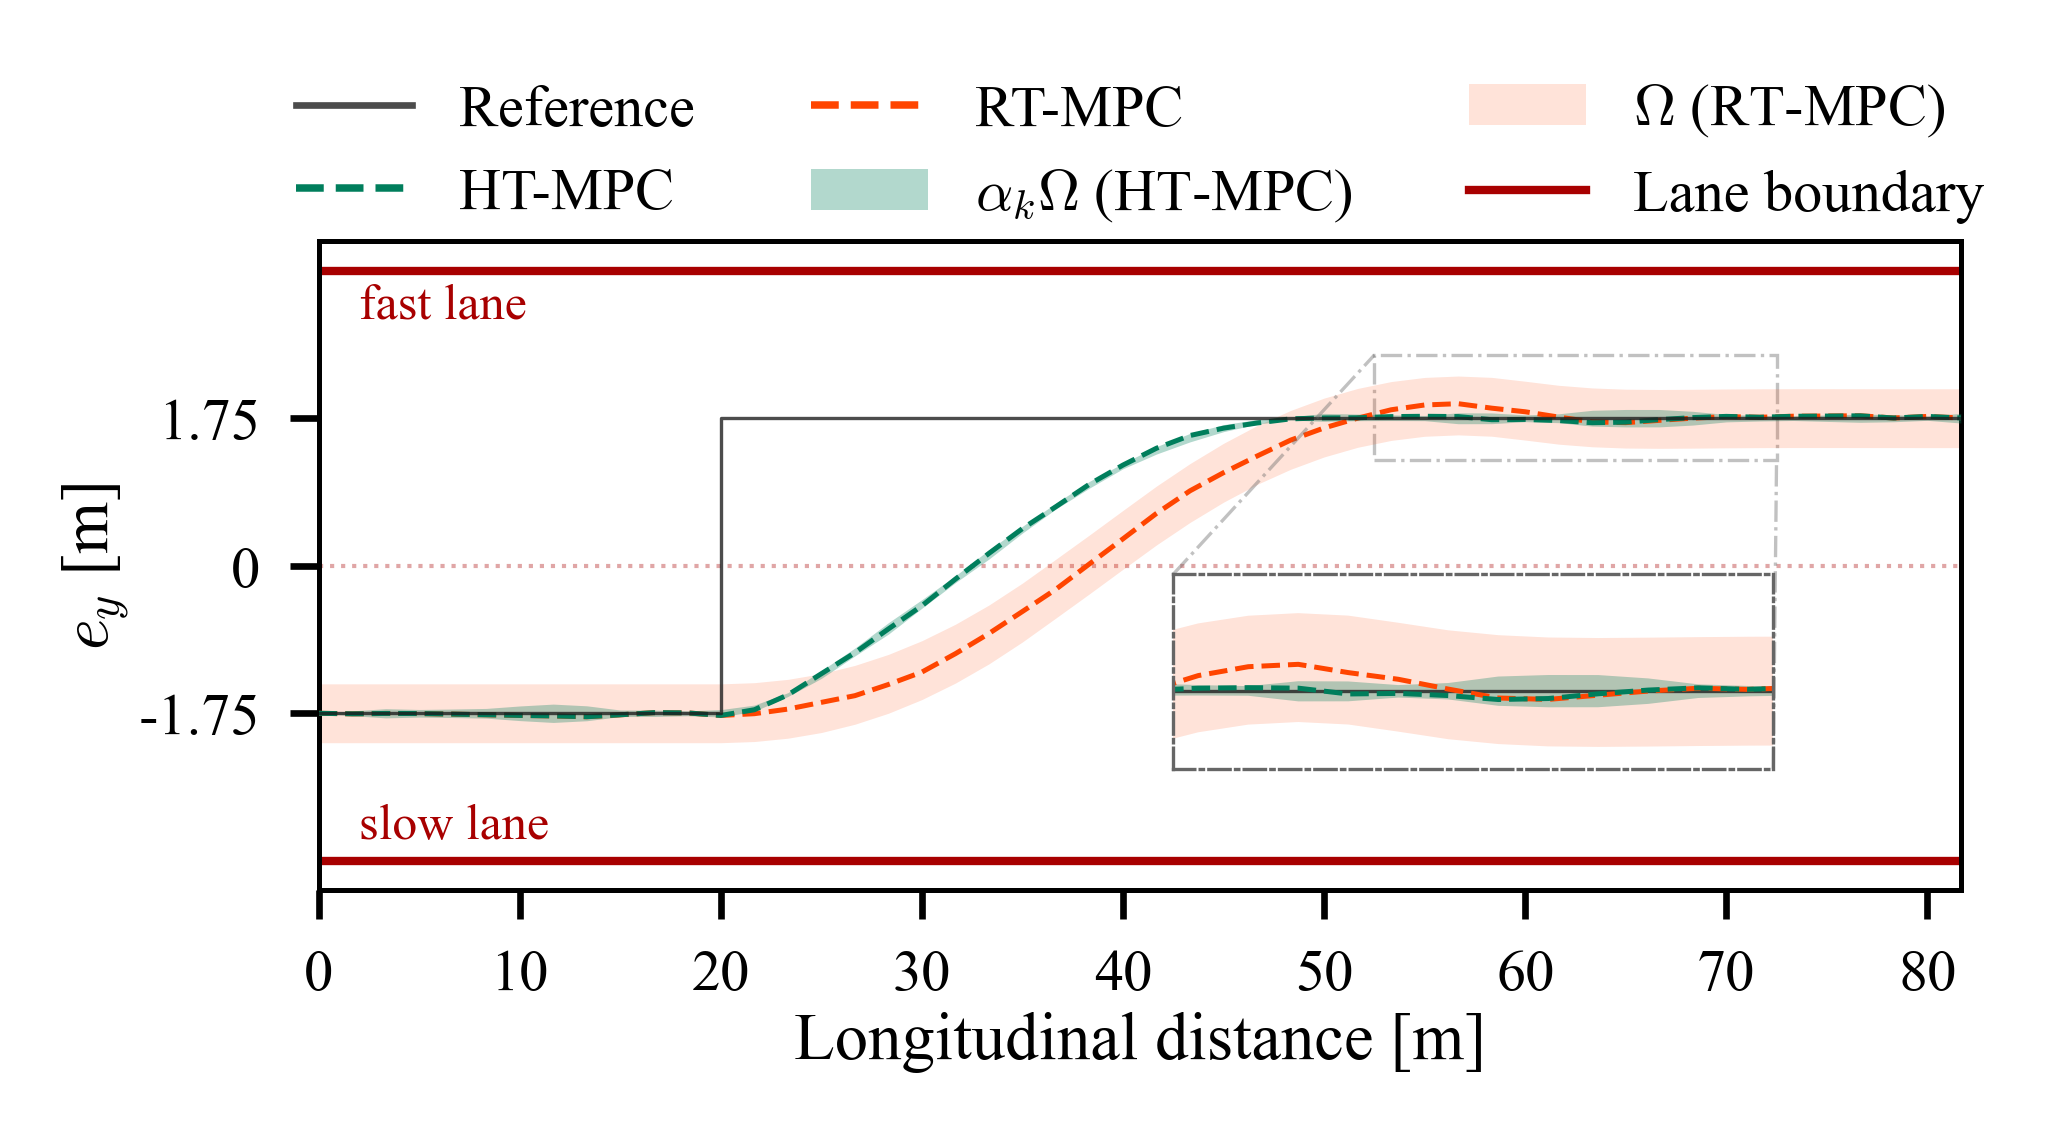
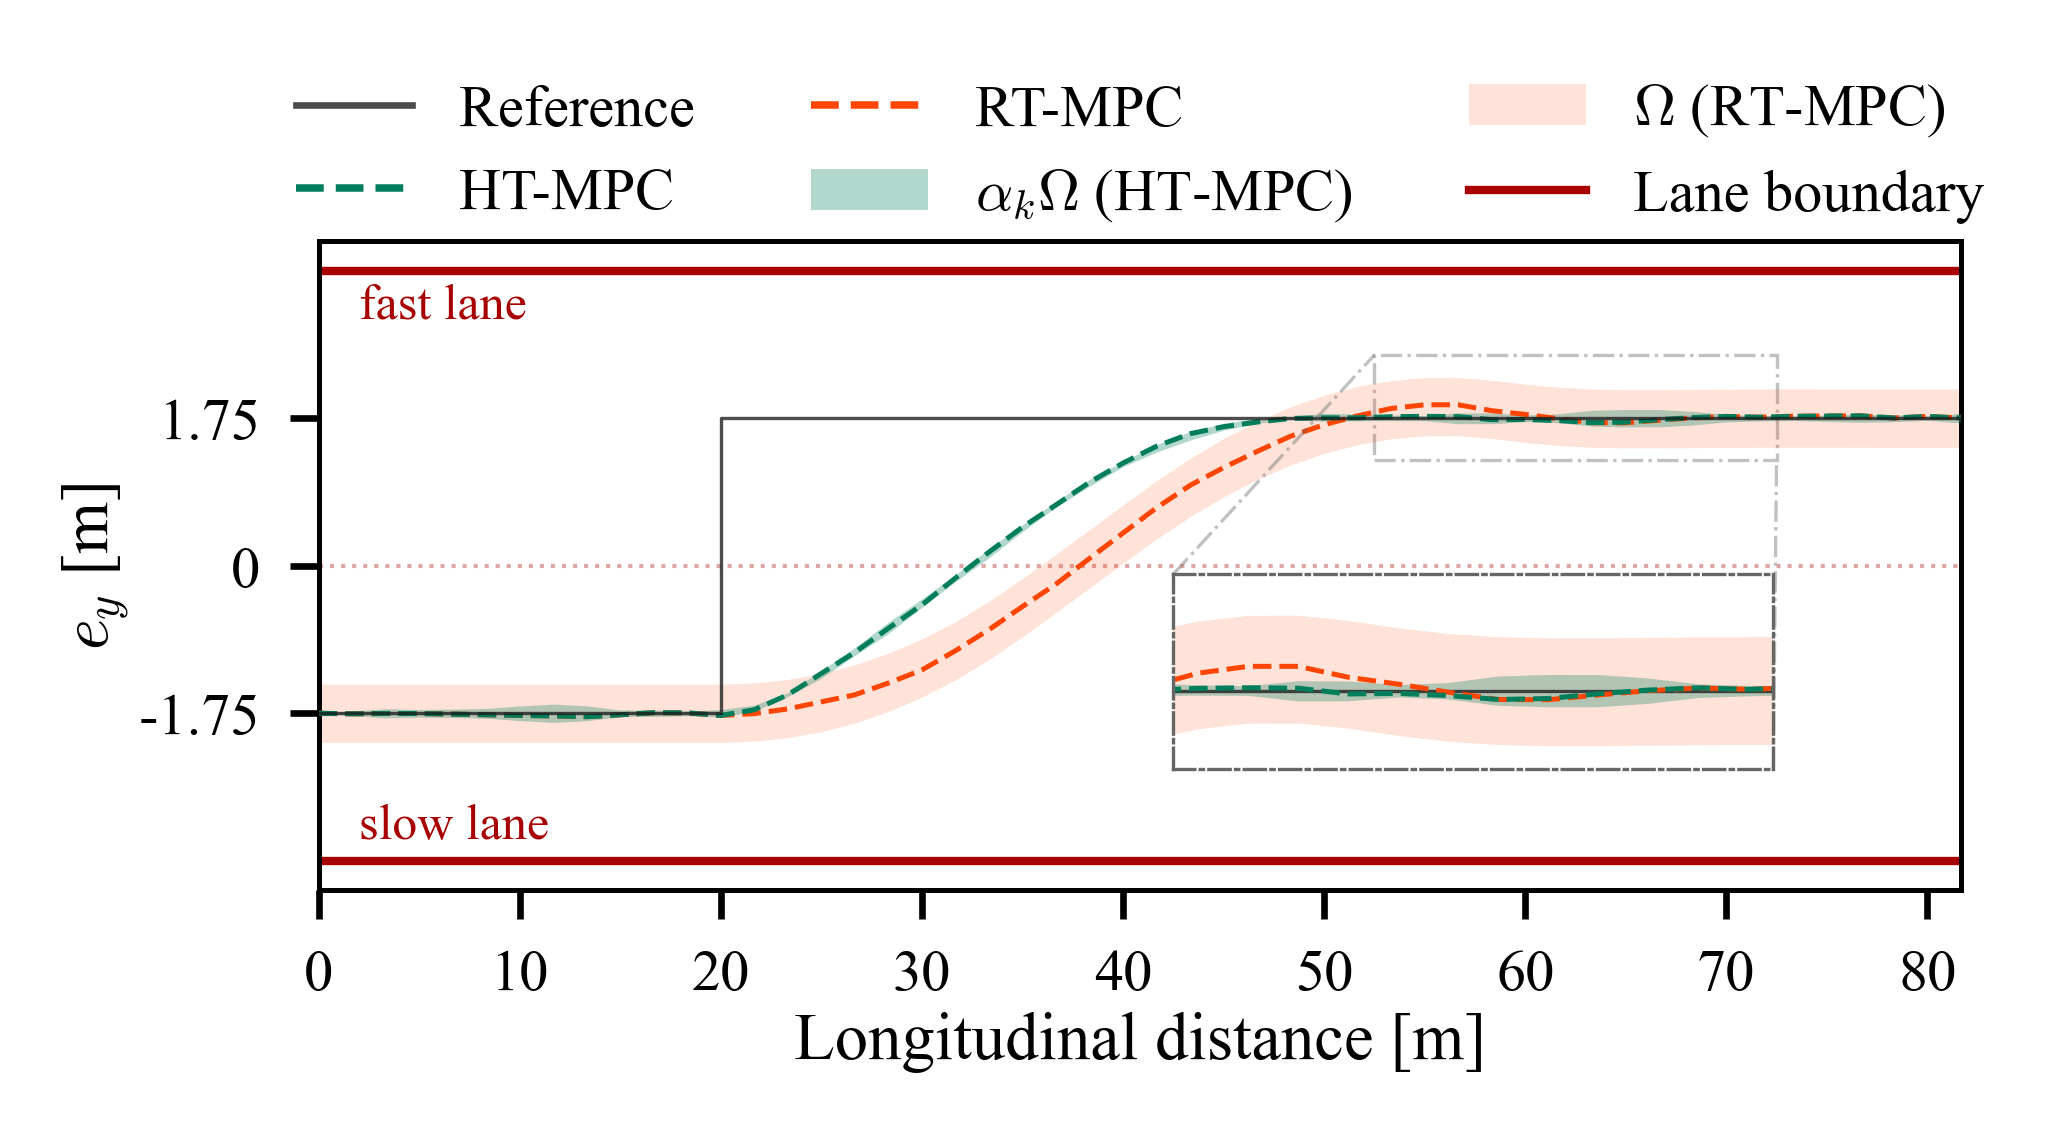
Lateral model: single input (front steering only)
The yaw-moment input mu_b is removed from the lateral single-track model.
Within a single-track model a yaw moment cannot be generated internally and,
with its former bound of 2 N.m, the channel had negligible authority
(1/14400 of steering). Removing it changes the results only in the third
decimal (Omega half-width in e_y 0.3490 -> 0.3457 m).

- LatVeh_Benchmark.ipynb: B is 4x1, m = 1, R_lqr = 1, R_c = 0.1,
  |delta_s| <= 0.20 rad; re-executed, outputs and figure regenerated
- htmpc_latveh.py: Section 1 re-copied verbatim; design() updated

diff --git a/htmpc_latveh.py b/htmpc_latveh.py
@@ -4,7 +4,8 @@ htmpc_latveh.py - engine for the interactive HT-MPC vs RT-MPC lane-change demo
 
 Section 1 (down to the "INTERACTIVE EXTENSIONS" banner) is a VERBATIM copy of the
 model / uncertainty / RPI / tightening / OCP / simulator code of
-``LatVeh_Benchmark.ipynb`` (the frozen, reviewer-facing notebook).  Nothing in
+``LatVeh_Benchmark.ipynb`` (the reviewer-facing notebook; single-track model with
+front steering as the only input).  Nothing in
 that section has been modified.
 
 Section 2 adds what the interactive demo needs on top of it:
@@ -92,16 +93,16 @@ def _Ac(vx):
 def _Bc():
     m, Iz, lf, Cf = _m, _Iz, _lf, _Cf
     return np.array([
-        [0.,           0.   ],
-        [0.,           0.   ],
-        [2.*Cf/m,      0.   ],
-        [2.*Cf*lf/Iz,  1./Iz],
+        [0.          ],
+        [0.          ],
+        [2.*Cf/m     ],
+        [2.*Cf*lf/Iz ],
     ])
 
 
 def discretize(vx, Ts):
     sd = sig.StateSpace(
-        _Ac(vx), _Bc(), np.eye(4), np.zeros((4, 2))
+        _Ac(vx), _Bc(), np.eye(4), np.zeros((4, 1))
     ).to_discrete(Ts)
     return np.array(sd.A), np.array(sd.B)
 
@@ -468,8 +469,6 @@ def run_rtmpc(A, B, A_hat, B_hat, K, C_out,
                      n_viol=0,ok=ok)
 
 
-
-
 # ══════════════════════════════════════════════════════════════════════════════
 #  SECTION 2 - INTERACTIVE EXTENSIONS  (not part of the benchmark)
 # ══════════════════════════════════════════════════════════════════════════════
@@ -505,10 +504,10 @@ def design(verbose: bool = True) -> Design:
     with contextlib.redirect_stdout(buf):
         vx0, Ts = 60.0/3.6, 0.1
         A, B  = discretize(vx0, Ts)
-        n, m  = 4, 2
+        n, m  = 4, 1
         C_out = np.array([[1., 0., 0., 0.]])
 
-        Q_lqr = np.diag([50., 10., 1., 10.]);  R_lqr = np.diag([1.0, 0.1])
+        Q_lqr = np.diag([50., 10., 1., 10.]);  R_lqr = np.diag([1.0])
         P_lqr = la.solve_discrete_are(A, B, Q_lqr, R_lqr)
         K     = -la.solve(R_lqr + B.T@P_lqr@B, B.T@P_lqr@A)
         A_K   = A + B@K
@@ -524,11 +523,11 @@ def design(verbose: bool = True) -> Design:
         Sigma_w  = np.diag([1e-4, 2e-5, 1e-4, 5e-5])*2
         p_conf   = 0.99
 
-        x_bounds = np.array([3.0, 0.30, 2.0, 1.5]);  u_bounds = np.array([0.20, 2.0])
+        x_bounds = np.array([3.0, 0.30, 2.0, 1.5]);  u_bounds = np.array([0.20])
         Hx = np.vstack([np.eye(n), -np.eye(n)]);  h_x = np.tile(x_bounds, 2)
         Hu = np.vstack([np.eye(m), -np.eye(m)]);  h_u = np.tile(u_bounds, 2)
 
-        Q_c = np.diag([20., 5., 0.5, 0.5]);  R_c = np.diag([0.1, 0.01])
+        Q_c = np.diag([20., 5., 0.5, 0.5]);  R_c = np.diag([0.1])
         P_inf = la.solve_discrete_are(A, B, Q_c, R_c)
 
         unc    = UncertaintyModel(Sigma_DA, Sigma_DB, Sigma_w, p_conf, p_conf, p_conf,
